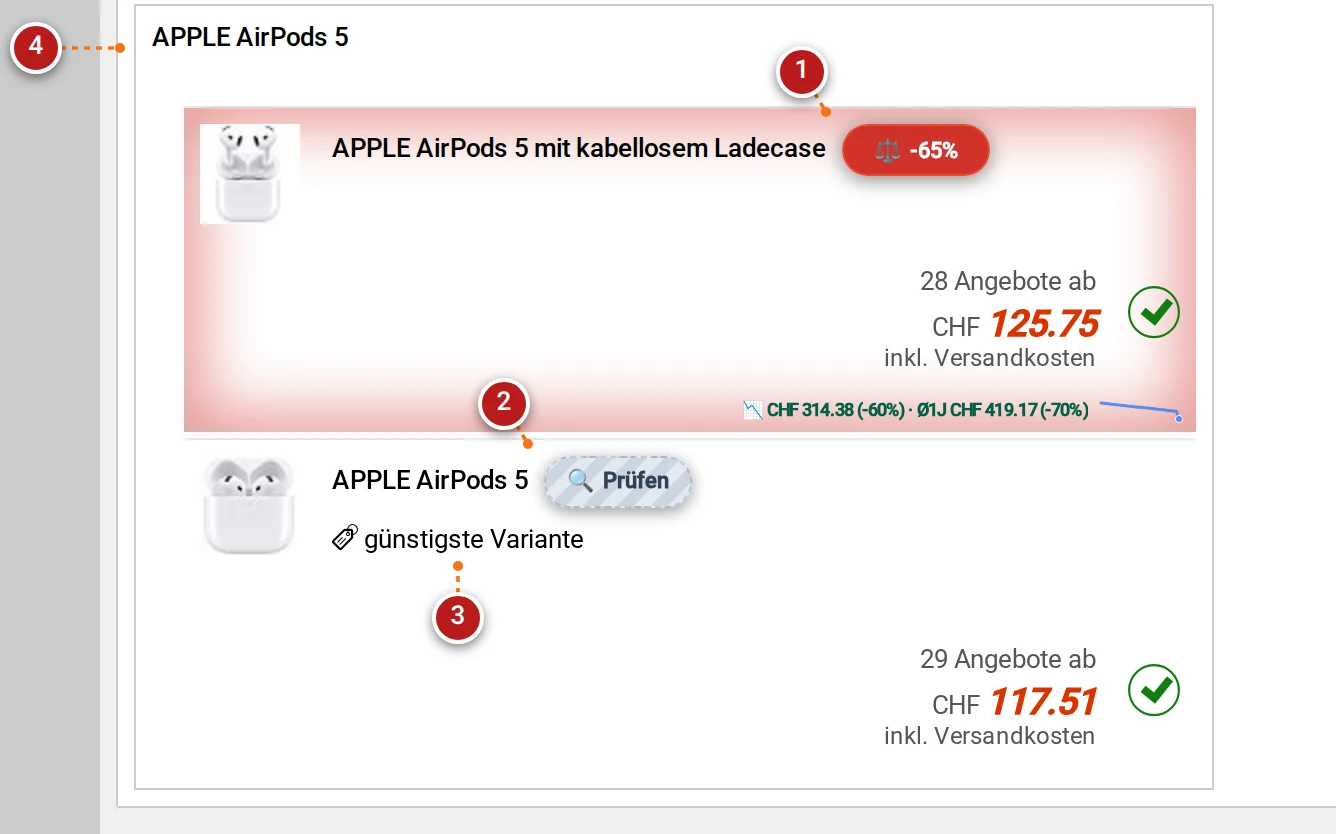
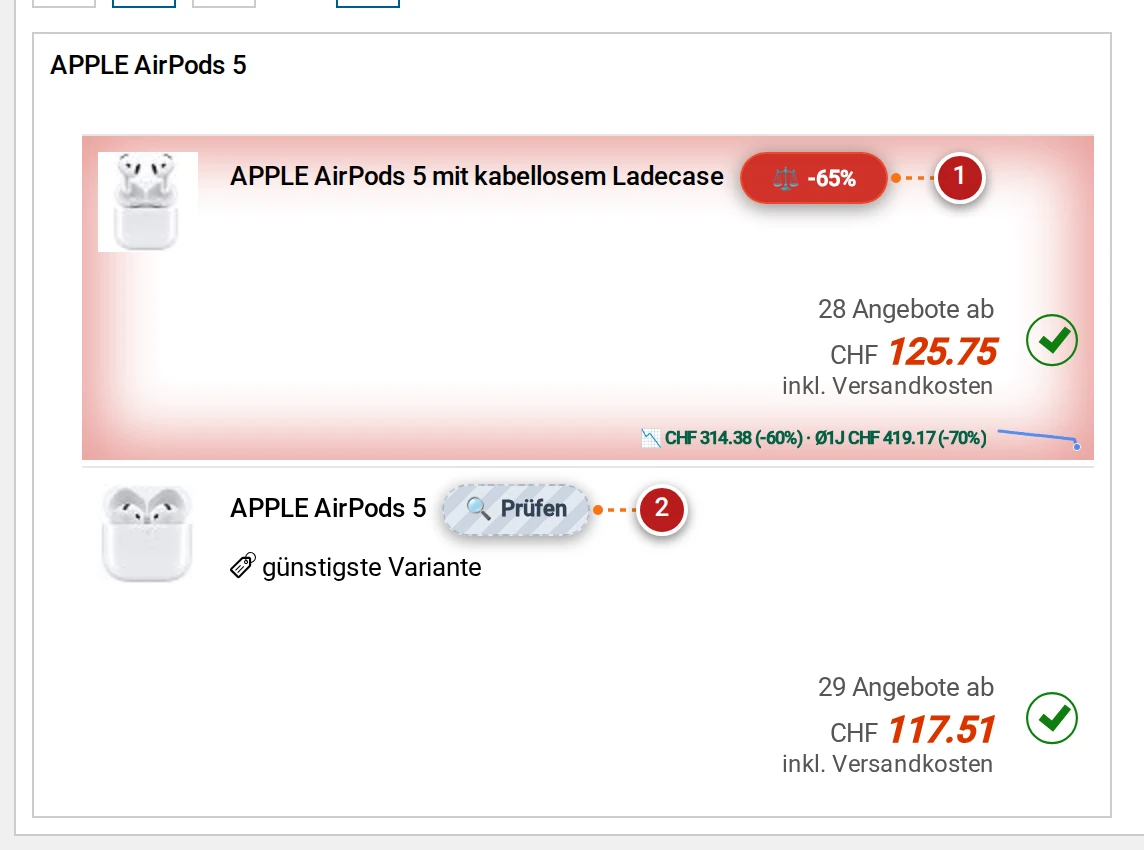
docs: streamline search cards screenshot and callouts

diff --git a/toppreise/docs/shots/index.html b/toppreise/docs/shots/index.html
@@ -125,7 +125,7 @@
 <body>
 <header>
   <h1>Toppreise.ch Suite — Screenshot Gallery</h1>
-  <div class="timestamp">Generiert: 2026-10-18 15:07:21 UTC</div>
+  <div class="timestamp">Generiert: 2026-10-18 15:40:04 UTC</div>
 </header>
 <main class="gallery-grid">
   
@@ -204,7 +204,7 @@
         <section class="gallery-card">
           <div class="card-header">
             <h2>search <span class="tag">03-search-cards.webp</span></h2>
-            <span class="meta">Snapshot: <strong>search</strong> · 4 Callouts</span>
+            <span class="meta">Snapshot: <strong>search</strong> · 2 Callouts</span>
           </div>
           <div class="card-body">
             <div class="image-wrap">
@@ -218,7 +218,7 @@
                   <tr><th>#</th><th>Element / Beschreibung</th></tr>
                 </thead>
                 <tbody>
-                  <tr><td class='num'>1</td><td class='cap'>Verifizierte Rabatt-Pill (Kompakte 1-zeilige Anzeige über dem Händlerangebot)</td></tr><tr><td class='num'>2</td><td class='cap'>Ungeprüft-Pill (Gestreiftes Signal für noch nicht verifizierte Varianten; Klick prüft Historie)</td></tr><tr><td class='num'>3</td><td class='cap'>Günstigste Variante (Native Toppreise-Kennzeichnung bleibt erhalten)</td></tr><tr><td class='num'>4</td><td class='cap'>Produktfamilien-Gruppierung (AirPods 5 Varianten bleiben sauber im gemeinsamen Container)</td></tr>
+                  <tr><td class='num'>1</td><td class='cap'>Verifizierte Rabatt-Pill (Kompakte 1-zeilige Anzeige über dem Händlerangebot)</td></tr><tr><td class='num'>2</td><td class='cap'>Ungeprüft-Pill (Gestreiftes Signal für noch nicht verifizierte Varianten; Klick prüft Historie)</td></tr>
                 </tbody>
               </table>
             </div>

diff --git a/toppreise/tools/refresh-screenshot.py b/toppreise/tools/refresh-screenshot.py
@@ -588,14 +588,6 @@ def setup_search_cards(page, pids):
             coll.style.maxWidth = '540px';
             coll.style.margin = '0';
         }
-        // Wrap the günstigste Variante text inside a span so its bounding box tightly fits the label (not 440px container)
-        const el = Array.from(document.querySelectorAll('.Plugin_ProductCollItem div')).find(d => d.textContent.includes('günstigste Variante') && !d.querySelector('div'));
-        if (el) {
-            const span = document.createElement('span');
-            span.id = 'tp-cheapest-variant-label';
-            while (el.firstChild) span.appendChild(el.firstChild);
-            el.appendChild(span);
-        }
     }""")
 
     block_pids = block.evaluate(r"""el => {
@@ -623,26 +615,30 @@ def setup_search_cards(page, pids):
     page.wait_for_timeout(200)
 
     b_box = block.bounding_box()
+    pad = 16
     clip = {
-        "x": max(0, b_box["x"] - 68),
-        "y": max(0, b_box["y"] - 2),
-        "width": b_box["width"] + 128,
-        "height": b_box["height"] + 24,
+        "x": max(0, b_box["x"] - pad),
+        "y": max(0, b_box["y"] - pad),
+        "width": b_box["width"] + pad * 2,
+        "height": b_box["height"] + pad * 2,
     }
     raw_bytes = page.screenshot(clip=clip)
     origin = {"x": clip["x"], "y": clip["y"]}
 
+    deal_box = css_box(page, deal)
+    unchecked_box = css_box(page, unchecked)
     callouts = [
-        (1, css_box(page, deal), "Verifizierte Rabatt-Pill (Kompakte 1-zeilige Anzeige über dem Händlerangebot)", [-20, -26]),
-        (2, css_box(page, unchecked), "Ungeprüft-Pill (Gestreiftes Signal für noch nicht verifizierte Varianten; Klick prüft Historie)", [-20, -26]),
+        (1, deal_box, "Verifizierte Rabatt-Pill (Kompakte 1-zeilige Anzeige über dem Händlerangebot)",
+         {"bx": deal_box["x"] - origin["x"] + deal_box["width"] + 36,
+          "by": deal_box["y"] - origin["y"] + deal_box["height"] / 2,
+          "tx": deal_box["x"] - origin["x"] + deal_box["width"] + 4,
+          "ty": deal_box["y"] - origin["y"] + deal_box["height"] / 2}),
+        (2, unchecked_box, "Ungeprüft-Pill (Gestreiftes Signal für noch nicht verifizierte Varianten; Klick prüft Historie)",
+         {"bx": unchecked_box["x"] - origin["x"] + unchecked_box["width"] + 36,
+          "by": unchecked_box["y"] - origin["y"] + unchecked_box["height"] / 2,
+          "tx": unchecked_box["x"] - origin["x"] + unchecked_box["width"] + 4,
+          "ty": unchecked_box["y"] - origin["y"] + unchecked_box["height"] / 2}),
     ]
-    cheapest_variant = try_box(page, "#tp-cheapest-variant-label") or try_box(page, ".Plugin_ProductCollItem :text('günstigste Variante')")
-    if cheapest_variant:
-        callouts.append((3, cheapest_variant, "Günstigste Variante (Native Toppreise-Kennzeichnung bleibt erhalten)", "outside-bottom"))
-
-    series_header = try_box(page, ".Plugin_ProductCollItem .product-name .bold") or try_box(page, ".Plugin_ProductCollItem .f_select_series, .Plugin_ProductCollItem a[href*='/produktserie/']")
-    if series_header:
-        callouts.append((4, series_header, "Produktfamilien-Gruppierung (AirPods 5 Varianten bleiben sauber im gemeinsamen Container)", [-50, 0]))
 
     return raw_bytes, origin, callouts, "03-search-cards.webp"
 

diff --git a/toppreise/README.md b/toppreise/README.md
@@ -141,8 +141,6 @@ The userscript dynamically tailors its UI to the current page type:
 |---|---|---|
 | ① | **Verified Deal Pill** | Compact inline pill showing true weighted discount above current merchant price. |
 | ② | **Unverified Scan Pill** | Striped-gray badge indicating unverified catalog item; click to fetch price history. |
-| ③ | **Cheapest Variant Preserved** | Native site highlights preserved in their original DOM position. |
-| ④ | **Grouped Family Protection** | Container keeps product variants (e.g. AirPods 5) grouped without breaking grid layout. |
 
 * **Deal Feeds (`/neue-toppreise`):** Displays the full suite: consolidated filter button (`🧹 Filter (N)`), continuous heatmap toggle, `💎 Tiefstpreis-Sortierung`, floating batch scanner, and calculation popover (`⚖`).
 * **Catalog & Search Listings (`/produktsuche/...`):** Streamlined toolbar with complete protection for grouped product families (`.Plugin_ProductCollItem`). Grouped variants (such as AirPods with or without wireless charging case) remain locked in their native collection containers, preserving Bootstrap grid integrity without splitting cards. Inline deal pills (`.tp-deal-pill`) sit neatly above prices.

diff --git a/toppreise/README.de.md b/toppreise/README.de.md
@@ -140,8 +140,6 @@ Das Skript passt seine Oberfläche automatisch an den jeweiligen Seitentyp an:
 |---|---|---|
 | ① | **Verifizierte Rabatt-Pill** | Kompakte einzeilige Anzeige über dem Preis für geprüfte Tiefstpreise. |
 | ② | **Ungeprüft-Pill** | Gestreiftes Hinweissignal für noch nicht geprüfte Varianten (Klick startet Prüfung). |
-| ③ | **Günstigste Variante** | Native Toppreise-Hervorhebung bleibt an ihrer ursprünglichen Position erhalten. |
-| ④ | **Produktfamilien-Schutz** | Hält Varianten (z. B. AirPods 5) sauber im gemeinsamen Container zusammen. |
 
 * **Tiefstpreis-Feeds (`/neue-toppreise`):** Zeigt die vollständige Toolbar mit konsolidiertem Filter-Button (`🧹 Filter (N)`), Heatmap, `💎 Tiefstpreis-Sortierung`, Batch-Scanner und Berechnungsparametern (`⚖`).
 * **Katalog- & Suchergebnisse (`/produktsuche/...`):** Kompakte Leiste mit vollständigem Schutz für Produktvarianten-Serien (`.Plugin_ProductCollItem`). Gruppierte Produktfamilien (z. B. AirPods mit oder ohne Ladecase) bleiben stets als geschlossene Einheit erhalten; das Bootstrap-Layout wird nie zerrissen. Platzsparende 1-Zeilen-Pills (`.tp-deal-pill`) sitzen sauber über den Preisen.
